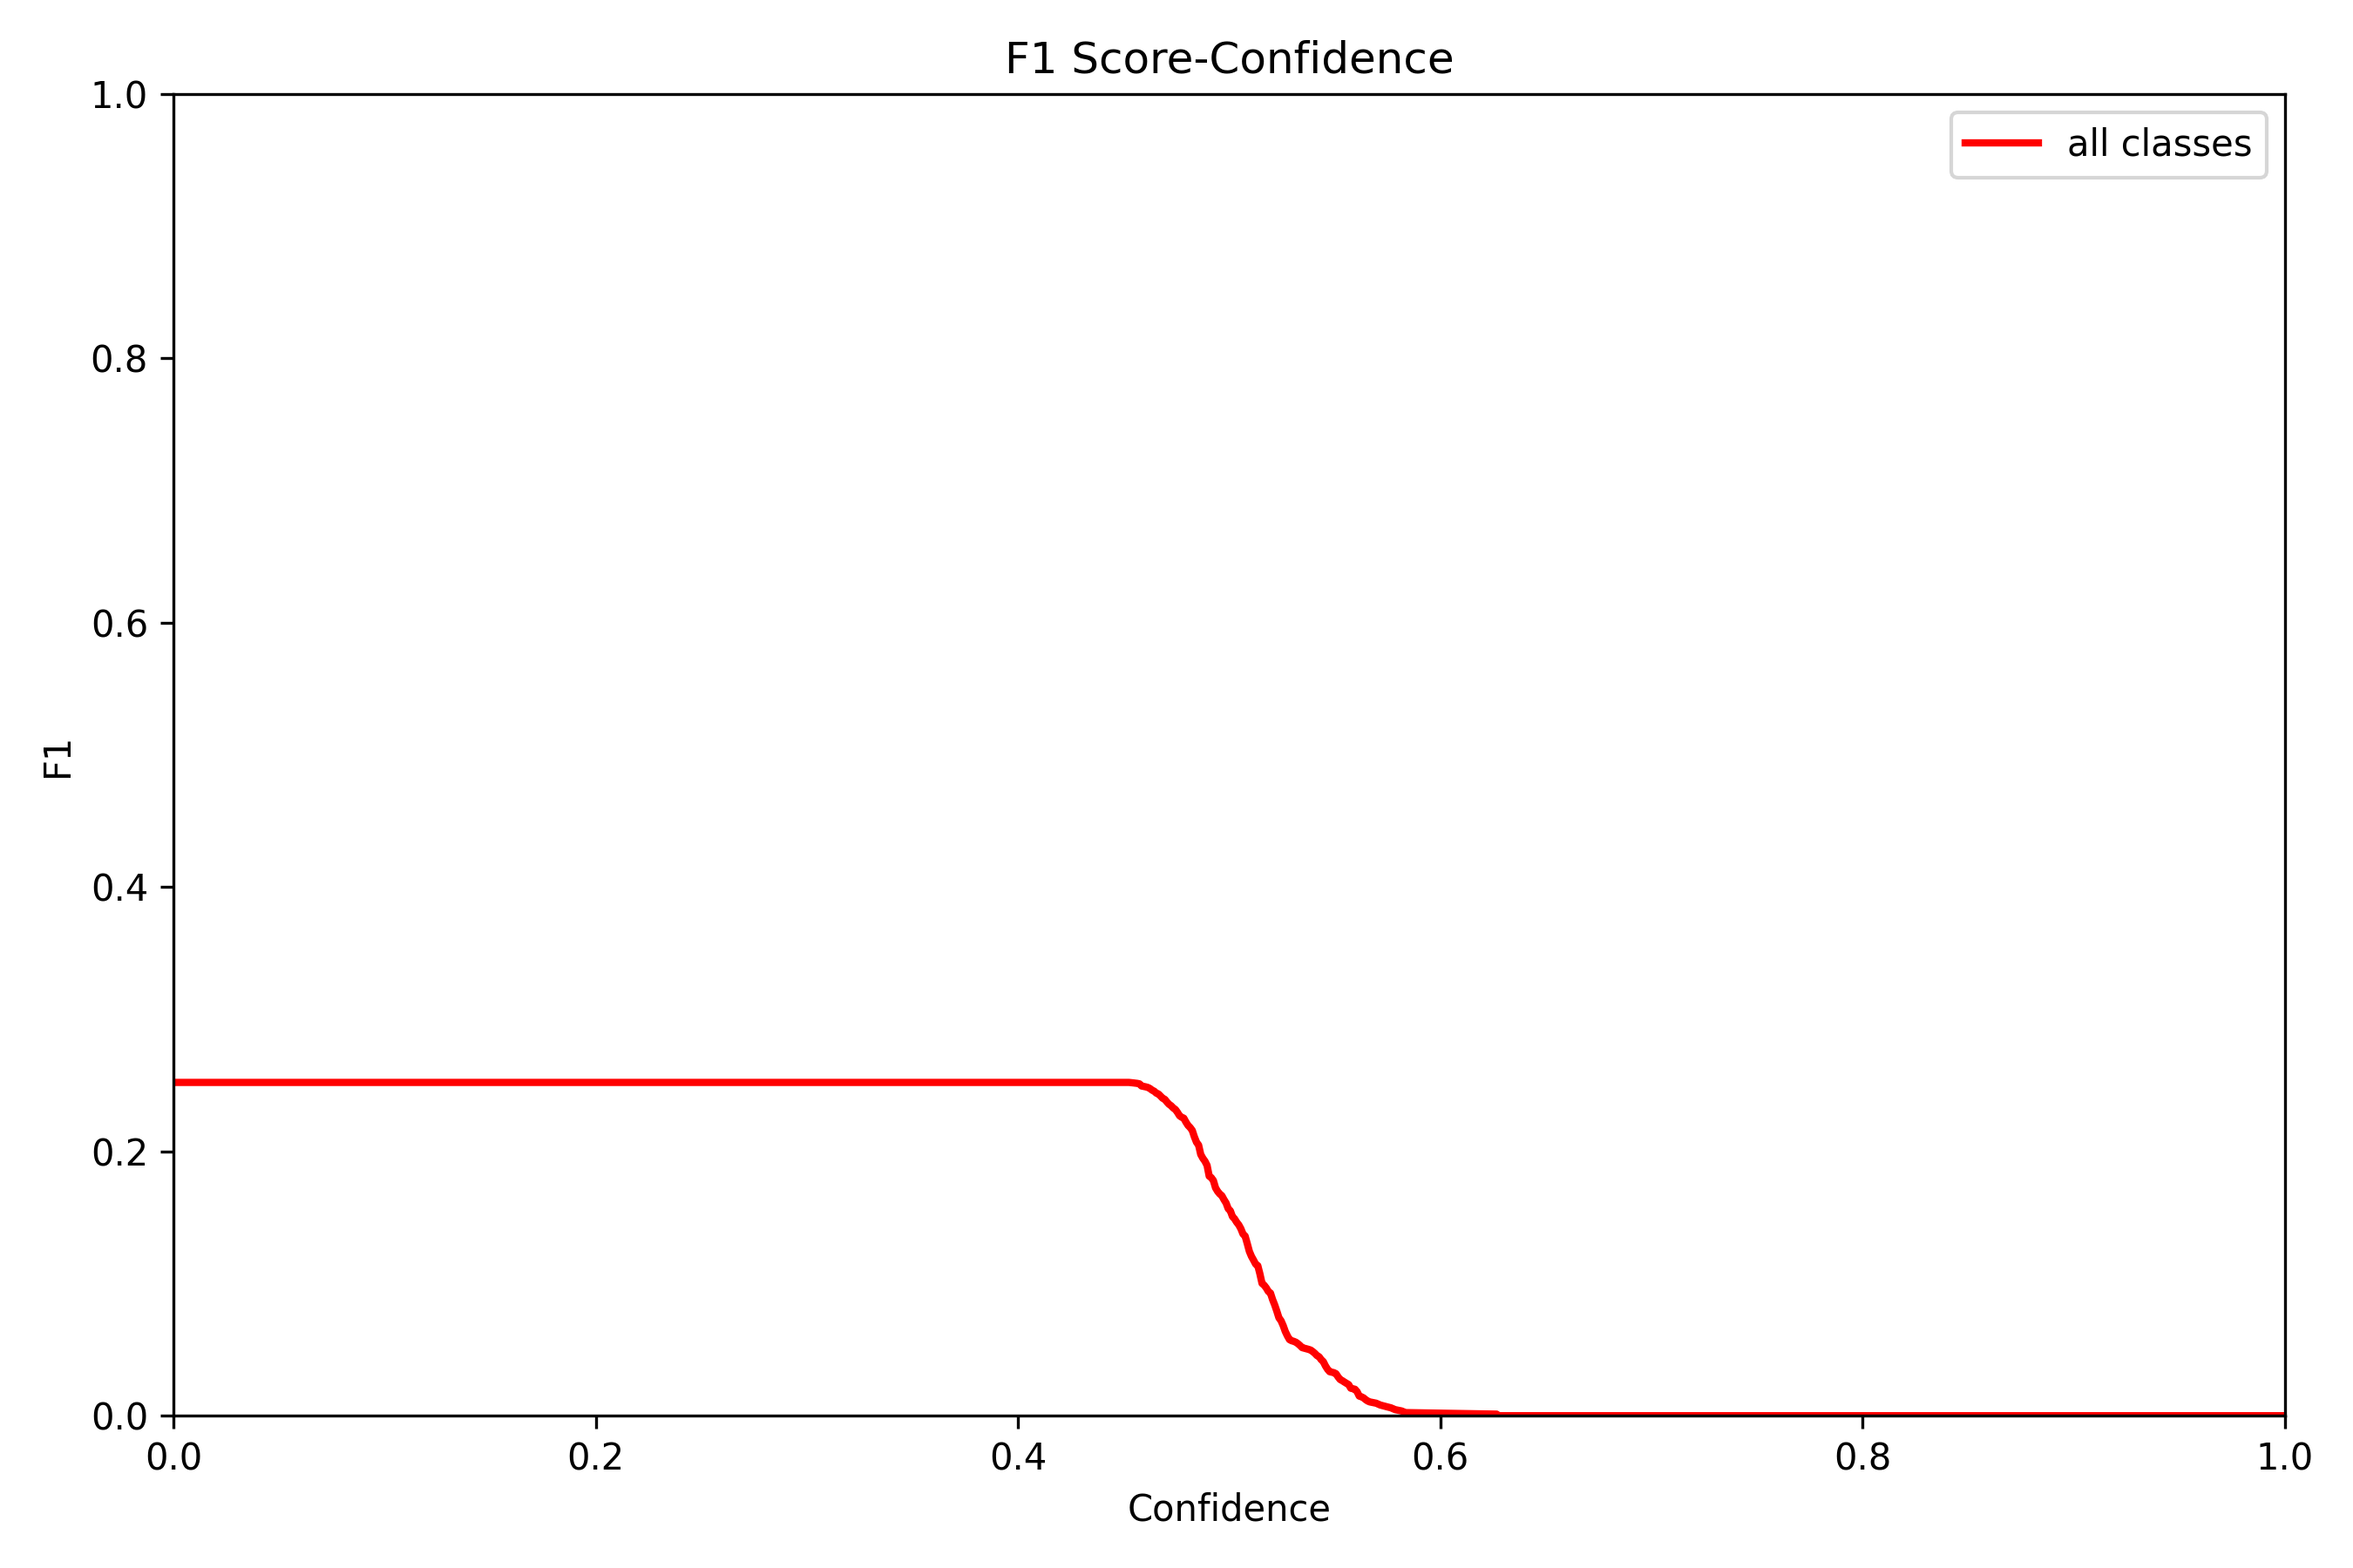
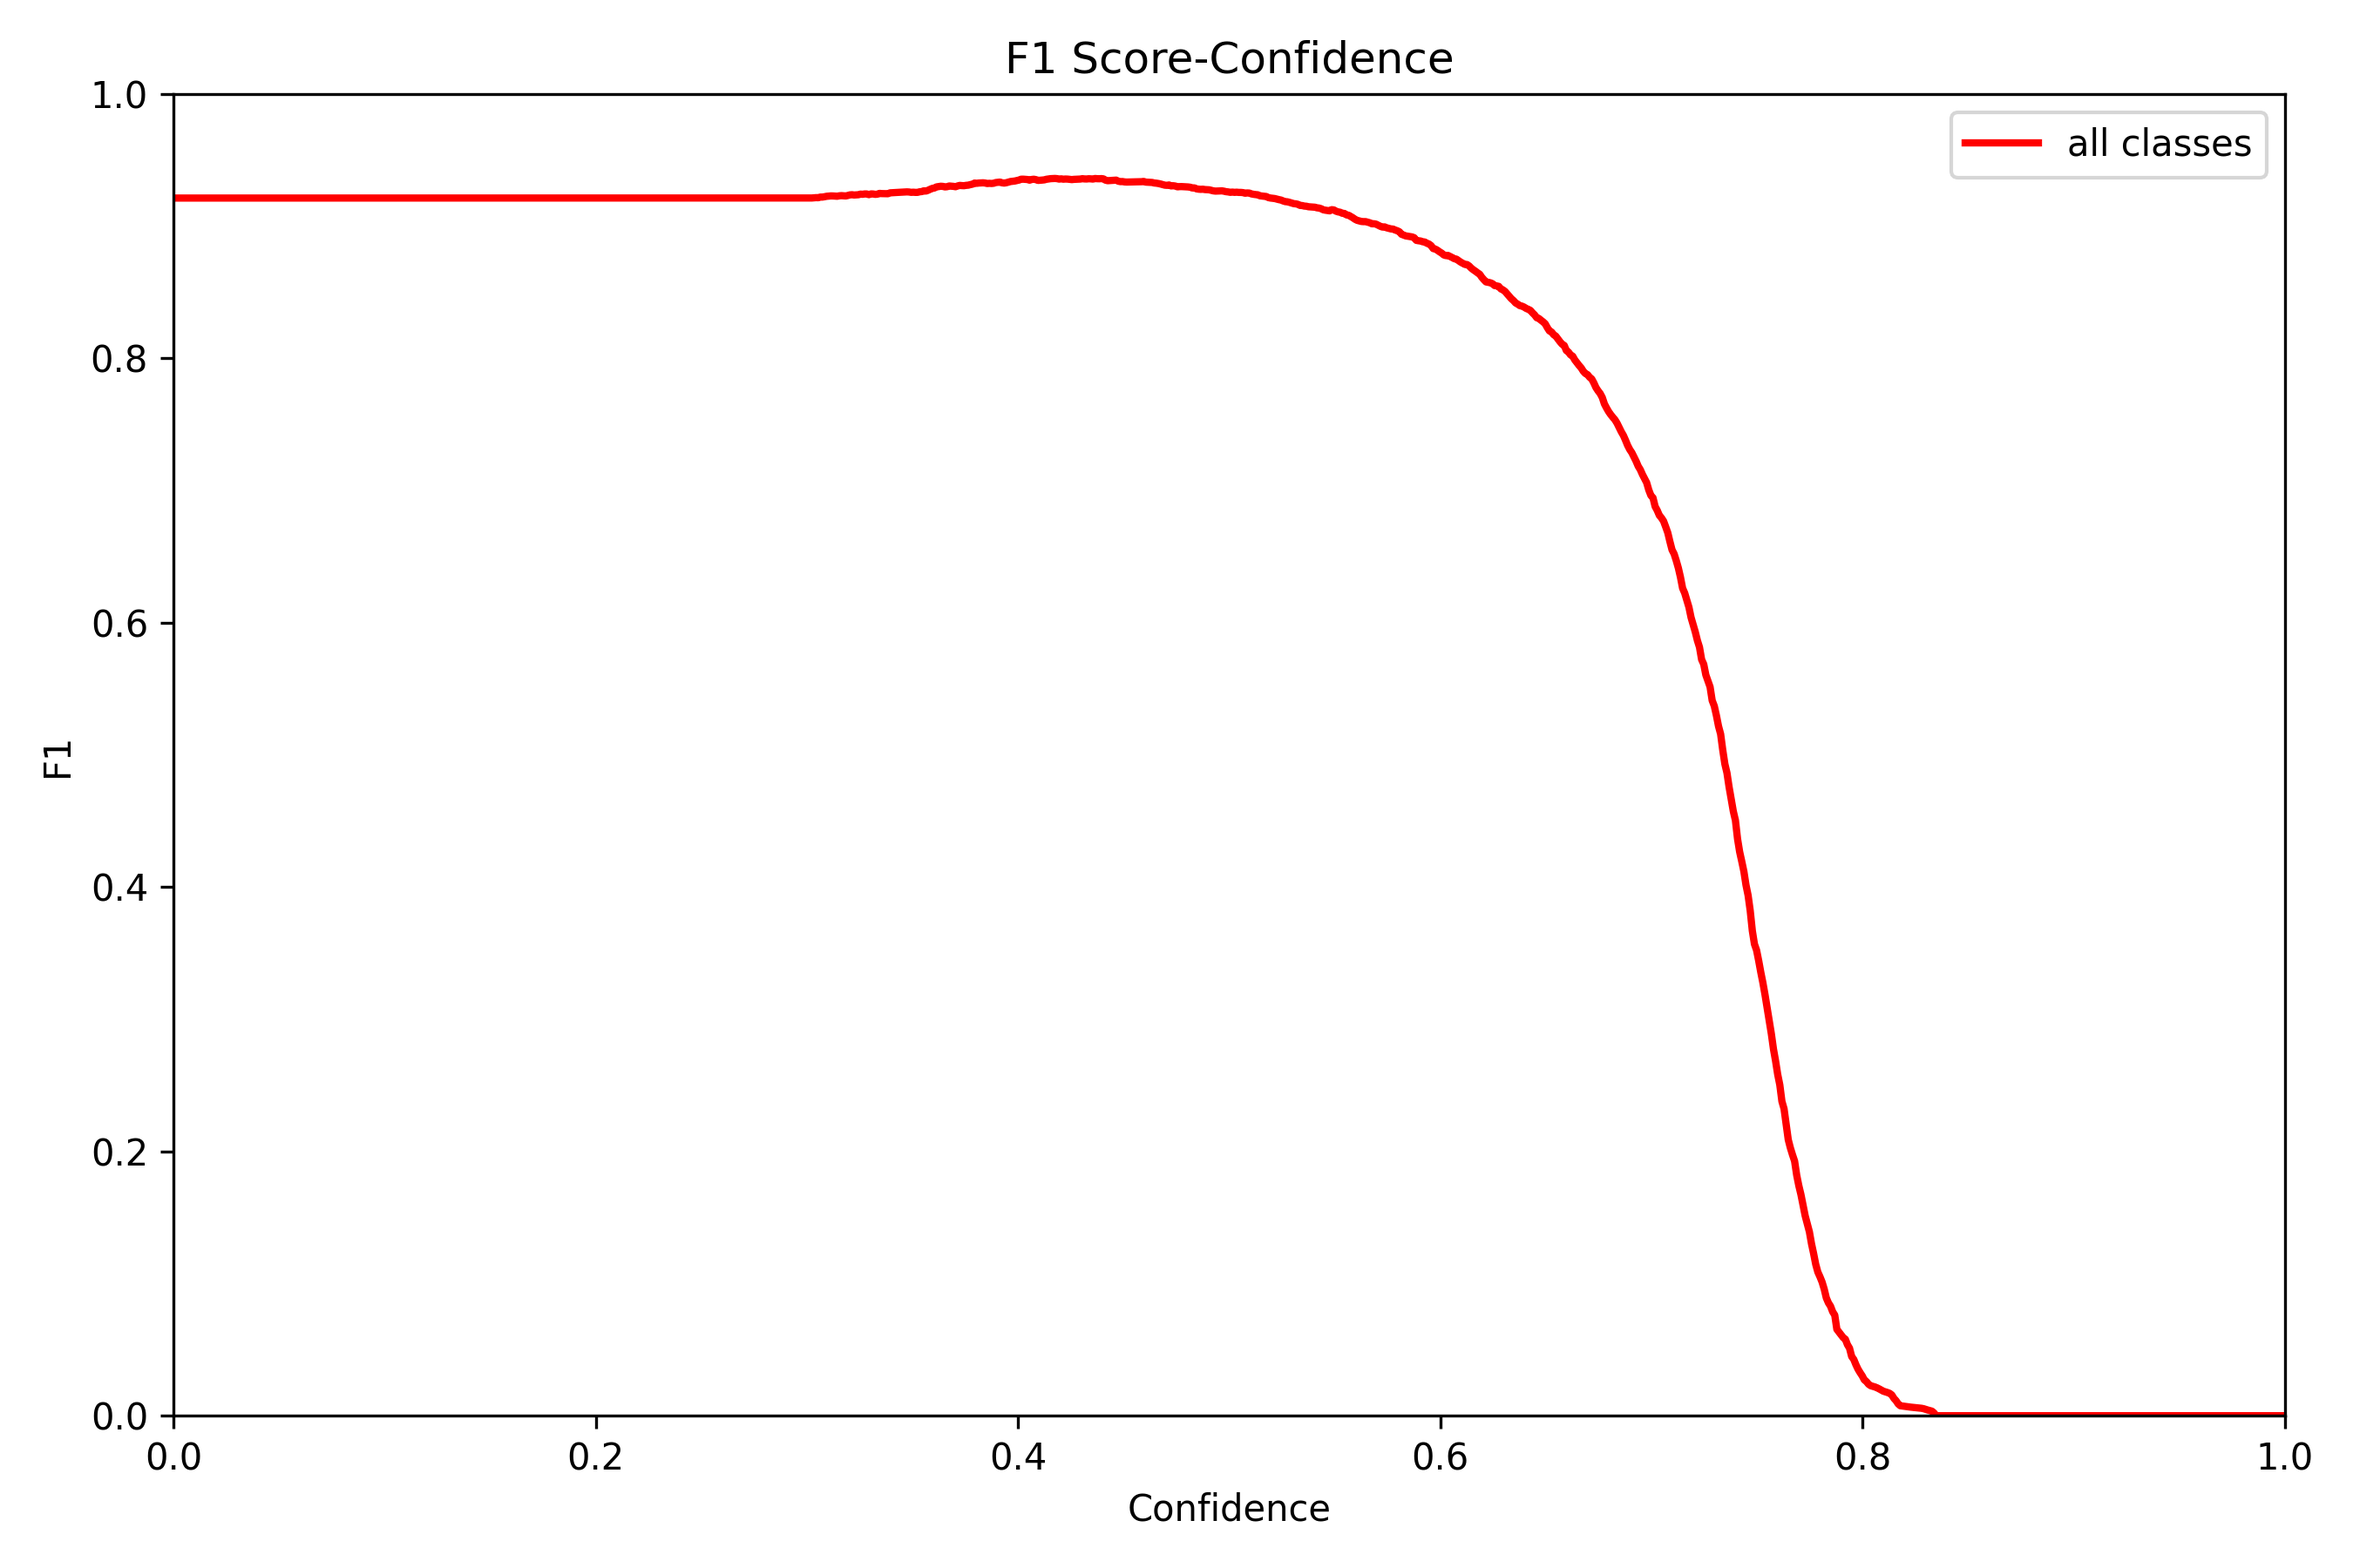
fcos enable head scale

diff --git a/loss/fcos_loss.py b/loss/fcos_loss.py
@@ -41,6 +41,7 @@ class FCOSLoss:
         self.positive_smooth_cls, self.negative_smooth_cls = smooth_bce(self.hyp['class_smooth_factor'])
         self.radius = hyp['center_sampling_radius']
         self.grids = None
+        self.eps = self.hyp['eps']
 
     def compute_iou_loss(self, pred, tar, weight=None):
         """
@@ -70,7 +71,7 @@ class FCOSLoss:
         g_w_intersect = torch.max(pred_left, target_left) + torch.max(pred_right, target_right)  # (m,)
         h_intersect = torch.min(pred_bottom, target_bottom) + torch.min(pred_top, target_top)    # (m,)
         g_h_intersect = torch.max(pred_bottom, target_bottom) + torch.max(pred_top, target_top)  # (m,)
-        ac_uion = g_w_intersect * g_h_intersect + 1e-7  # (m,)
+        ac_uion = g_w_intersect * g_h_intersect + self.eps  # (m,)
         area_intersect = w_intersect * h_intersect  # (m,)
         area_union = target_area + pred_area - area_intersect
         ious = (area_intersect + 1.0) / (area_union + 1.0)
@@ -131,26 +132,31 @@ class FCOSLoss:
                 tmp_pred_ctr = pred_cen.permute(1, 2, 0).contiguous() # (h, w, 1)
                 tmp_pred_reg = pred_reg.permute(1, 2, 0).contiguous()  # (h, w, 4)
                 tmp_tars_cls = torch.ones_like(tmp_pred_cls) * self.negative_smooth_cls  # (h, w, num_class)
+                tmp_tars_cen = torch.zeros_like(tmp_pred_ctr)
                 if pos_num > 0:
                     # --------------------------------------------------------------------------------- centerness loss
-                    tmp_tars_cen = torch.zeros_like(tmp_pred_ctr)
                     tmp_tars_cen[(pos_idx[0], pos_idx[1])] = ctr_tar.unsqueeze(dim=-1).type_as(tmp_pred_ctr)
-                    stage_ctr_loss.append(self.bce_ctr(tmp_pred_ctr.reshape(-1, 1), tmp_tars_cen.reshape(-1, 1)).sum() / pos_num)
+                    ctr_loss = self.bce_ctr(tmp_pred_ctr[(pos_idx[0], pos_idx[1])].reshape(-1, 1), tmp_tars_cen[(pos_idx[0], pos_idx[1])].reshape(-1, 1)).sum()
+                    ctr_loss /= pos_num
+                    stage_ctr_loss.append(ctr_loss)
 
                     # --------------------------------------------------------------------------------- regression loss
-                    loss_denorm = max(ctr_tar.sum().item(), 1e-6)
-                    stage_reg_loss.append(self.compute_iou_loss(tmp_pred_reg[(pos_idx[0], pos_idx[1])], reg_tar, ctr_tar) / loss_denorm)
+                    loss_denorm = max(ctr_tar.sum().item(), self.eps)
+                    iou_loss = self.compute_iou_loss(tmp_pred_reg[(pos_idx[0], pos_idx[1])], reg_tar, ctr_tar)
+                    iou_loss /= (loss_denorm * pos_num)
+                    stage_reg_loss.append(iou_loss)
+                    # stage_reg_loss.append(self.compute_iou_loss(tmp_pred_reg[(pos_idx[0], pos_idx[1])], reg_tar, ctr_tar) / (loss_denorm * pos_num))
                     
                     # --------------------------------------------------------------------------------- classification loss
                     tmp_tars_cls[(pos_idx[0], pos_idx[1], cls_tar.long())] = self.positive_smooth_cls  # foreground class
                 else:
                     # --------------------------------------------------------------------------------- classification loss
-                    stage_ctr_loss.append(tmp_pred_ctr.new_tensor(0.0))
                     stage_reg_loss.append(tmp_pred_reg.new_tensor(0.0))
+                    stage_ctr_loss.append(self.bce_ctr(tmp_pred_ctr.reshape(-1, 1), tmp_tars_cen.reshape(-1, 1)).mean())
 
                 focal = self.focal_loss_factor(tmp_pred_cls.float().reshape(-1, self.hyp['num_class']), tmp_tars_cls.float().reshape(-1, self.hyp['num_class'])) 
                 cls_loss = self.bce_cls(tmp_pred_cls.float().reshape(-1, self.hyp['num_class']), tmp_tars_cls.float().reshape(-1, self.hyp['num_class']))
-                cls_loss = (cls_loss * focal).mean()
+                cls_loss = (cls_loss * focal).mean(-1).sum() / max(pos_num, 1.0)
                 stage_cls_loss.append(cls_loss)
 
             balance_reg_loss, balance_ctr_loss, balance_cls_loss = self.compute_balance_losses(s, 

diff --git a/train_fcos.py b/train_fcos.py
@@ -35,7 +35,7 @@ from utils import maybe_mkdir, clear_dir
 from trainer import ExponentialMovingAverageModel
 from utils import time_synchronize, summary_model
 from dataset import build_dataloader, build_test_dataloader
-from utils import mAP_v2
+from utils import mAP_v2, Scale
 from models import FCOSBaseline, FCOSCSPNet
 
 from utils import (configure_nccl, configure_omp, get_local_rank, print_config, 
@@ -236,15 +236,16 @@ class Training:
         self.accumulate = self.hyp['accumulate_loss_step'] / self.hyp['batch_size']
 
     def _init_optimizer(self):
-        param_group_weight, param_group_bias, param_group_other = [], [], []
+        param_group_weight, param_group_bias, param_group_other, param_group_scale = [], [], [], []
         for m in self.model.modules():
             if hasattr(m, "bias") and isinstance(m.bias, nn.Parameter):
                 param_group_bias.append(m.bias)
-            
             if isinstance(m, nn.BatchNorm2d) or isinstance(m, nn.GroupNorm):
                 param_group_other.append(m.weight)
             elif hasattr(m, 'weight') and isinstance(m.weight, nn.Parameter):
                 param_group_weight.append(m.weight)
+            elif hasattr(m, 'scale') and isinstance(m.scale, nn.Parameter):
+                param_group_scale.append(m.scale)
 
         if self.hyp['optimizer'].lower() == "sgd":
             optimizer = optim.SGD(params=param_group_other, lr=self.hyp['lr'], nesterov=True, momentum=self.hyp['momentum'])
@@ -255,6 +256,7 @@ class Training:
 
         optimizer.add_param_group({"params": param_group_weight, "weight_decay": self.hyp['weight_decay']})
         optimizer.add_param_group({"params": param_group_bias})
+        optimizer.add_param_group({"params": param_group_scale})
 
         del param_group_weight, param_group_bias, param_group_other
         return optimizer
@@ -308,7 +310,6 @@ class Training:
                     with amp.autocast(enabled=self.use_cuda):
                         cls_fms, reg_fms, ctr_fms = self.model(img)
                         loss_dict = self.loss_fcn(cls_fms, reg_fms, ctr_fms, ann)
-                        # loss_dict['tot_loss'] *= get_world_size()
 
                 tot_loss = loss_dict['tot_loss']
 
@@ -317,7 +318,7 @@ class Training:
                 check_parameters_no_used(self.model)
 
                 end_iter_t = time_synchronize()
-                loss_dict.update({'tot_loss': tot_loss.detach().item() / get_world_size()})
+                loss_dict.update({'tot_loss': tot_loss.detach().item()})
 
                 # optimize
                 if step_in_epoch % self.accumulate == 0:

diff --git a/utils/layer_tools.py b/utils/layer_tools.py
@@ -56,10 +56,10 @@ def fuse_conv_bn(conv_layer, bn_layer):
 class Scale(nn.Module):
     def __init__(self, init_value=1.0):
         super(Scale, self).__init__()
-        self.scale = nn.Parameter(torch.FloatTensor([init_value]))
+        self.scale = nn.Parameter(torch.FloatTensor([init_value]), requires_grad=True)
 
-    def forward(self, input):
-        return input * self.scale
+    def forward(self, x):
+        return x * self.scale
 
 class Concat(nn.Module):
 
